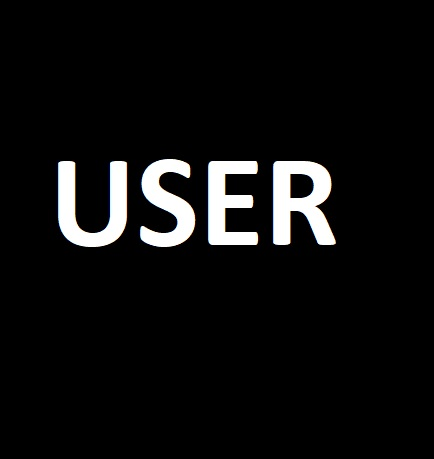
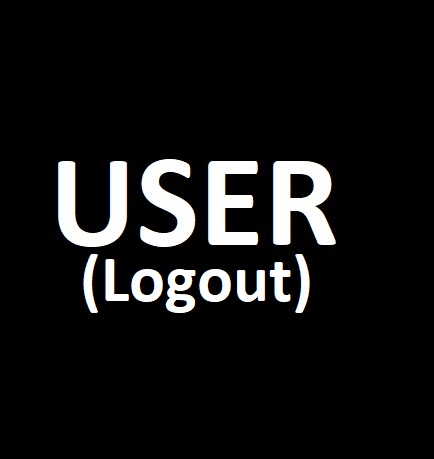
logout adicionado

Changed region(s): [[0.1797, 0.549, 0.7189, 0.7015]]

diff --git a/src/routes/auth.ts b/src/routes/auth.ts
@@ -37,10 +37,10 @@ router.post('/login', async (req: any, res: any, next: any) => {
         // create cookie with JWT token
         const token = jwt.sign({
             userType: userData.userType
-        }, SECRET, { expiresIn: 10})
+        }, SECRET, { expiresIn: 600}) // segundos
 
         res.cookie('token', token, { 
-            maxAge: 10000, // tempo de vida do cookie em milissegundos
+            maxAge: 600000, // tempo de vida do cookie em milissegundos
             httpOnly: true, // impede acesso via JavaScript no cliente
         });
 
@@ -58,6 +58,11 @@ router.post('/login', async (req: any, res: any, next: any) => {
 
 
 })
+
+router.get('/logout', async (req: any, res: any, next: any) => {
+    res.clearCookie('token');
+    res.redirect('/')
+});
 
 router.post('/register', async (req: Request, res: Response) => {
     const { adminKey, username, password } = req.body

diff --git a/views/principal.html b/views/principal.html
@@ -40,7 +40,7 @@
             notifications
             </span>
         </a>
-        <a onclick="" href="/   " target="">
+        <a onclick="" href="/auth/logout" target="">
             <div id="icon">
             </div>
         </a>
